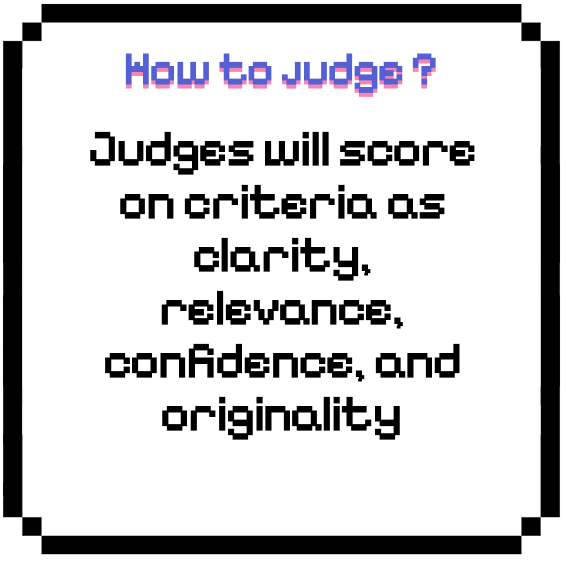
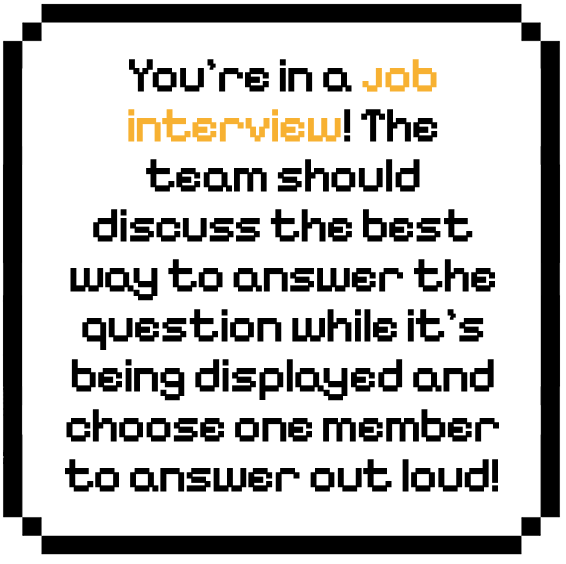
tutorial 100%, new tips, better flow

Changed region(s): [[0.1201, 0.0904, 0.871, 0.7837], [0.1201, 0.8138, 0.9011, 0.8741]]

diff --git a/scripts/tutorial.js b/scripts/tutorial.js
@@ -267,12 +267,37 @@ export class JudgingScreen {
             <button class="judging-strike-btn team2" id="voteTeam2">STRIKE!</button>
           </div>
         </div>
+        
+        <!-- Tutorial Overlay e frases -->
+        <div class="tutorial-overlay"></div>
+        <p class="tutorial-frase tutorial-frase-7"></p>
+        <p class="tutorial-frase tutorial-frase-8"></p>
       `;
       document.body.appendChild(overlay);
 
       // Fade-in
       setTimeout(() => { overlay.style.opacity = '1'; }, 10);
 
+      // Seleciona os elementos do tutorial
+      const tutorialOverlay = overlay.querySelector('.tutorial-overlay');
+      const howToVote1 = overlay.querySelector('.tutorial-frase-7');
+      const howToVote2 = overlay.querySelector('.tutorial-frase-8');
+
+      // Após 4 segundos, exibe o tutorial
+      setTimeout(() => {
+        if (tutorialOverlay) tutorialOverlay.classList.add("active");
+        if (howToVote1) howToVote1.classList.add("active");
+        if (howToVote2) howToVote2.classList.add("active");
+      }, 2000);
+
+      // Remove o tutorial após 0.5 segundos (totalizando 4.5 segundos)
+      setTimeout(() => {
+        if (howToVote1) howToVote1.classList.remove("active");
+        if (howToVote2) howToVote2.classList.remove("active");
+        tutorialOverlay.classList.remove("active");
+      }, 16000);
+
+      // Resto do código permanece igual...
       // Atualização em tempo real das barras de vida
       let rafId;
       function updateJudgingLifeBars() {
@@ -358,10 +383,9 @@ export class JudgingScreen {
         if (judgeTimerSpan) judgeTimerSpan.textContent = remaining;
         if (remaining <= 0) {
           clearInterval(timerId);
-          // Se ninguém votou, naoo acontece nada
+          // Se ninguém votou, não acontece nada
           if (!votedTeam) {
-            //  esquema pra votar em um time aleatorio. Acho que não faz sentido, mas pode ser util no futuro. Vou deixar só comentado ent.
-            //const randomTeam = Math.random() < 0.5 ? 'team1' : 'team2'; 
+            onVote('team2');
             voteTeam2Btn.classList.add('inactive');
             voteTeam1Btn.classList.add('inactive');
             if (rafId) cancelAnimationFrame(rafId);
@@ -372,15 +396,12 @@ export class JudgingScreen {
                 resolve(votedTeam);
               }, 500);
             }, 1000);
-
-
           }
         }
       }, 1000);
     });
   }
 }
-
 class Game {
   async showJudgesWillDecide() {
     return new Promise(resolve => {
@@ -399,6 +420,20 @@ class Game {
       img.className = 'judges-will-decide-img';
       judgesDiv.appendChild(img);
       document.body.appendChild(judgesDiv);
+
+      setTimeout(() => {
+        tutorialOverlay.classList.add("active")
+        howToVote1.classList.add("active")
+        howToVote2.classList.add("active")
+      }, 40000);
+
+      setTimeout(() => {
+        howToVote1.classList.remove("active")
+        howToVote2.classList.remove("active")
+      }, 45000);
+
+
+
       // Fade-in
       setTimeout(() => {
         judgesDiv.style.opacity = '1';
@@ -534,11 +569,11 @@ class Game {
 
     this.pauseSystem.resetPauseTime();
 
-    await this.runTeamTurn('team1', global.options.round);
+    await this.runTeamTurn('team1', 35);
 
     this.pauseSystem.resetPauseTime();
 
-    await this.runTeamTurn('team2', global.options.round);
+    await this.runTeamTurn('team2', 35);
 
     // Esconde (sem reflow) o FIGHT, a linha dos turnos e as ações antes do julgamento
     const fightOverlay = document.getElementById('fight-overlay');
@@ -653,6 +688,9 @@ class Game {
     const howToJudge2 = document.querySelector('.tutorial-frase-5');
     const team2Tip = document.querySelector('.tutorial-frase-6');
 
+    const howToVote1 = document.querySelector('.tutorial-frase-7');
+    const howToVote2 = document.querySelector('.tutorial-frase-8');
+
 
     if (team1Label && team2Label) {
       if (team === 'team1') {
@@ -664,32 +702,23 @@ class Game {
         setTimeout(() => {
           tutorialOverlay.classList.add("active")
           team1Speak.classList.add("active")
-
-          setTimeout(() => {
-            team1Speak.classList.remove("active")
-            team2Speak.classList.add("active")
-
-            setTimeout(() => {
-              team2Speak.classList.remove("active")
-              team1Tip.classList.add("active")
-              howToJudge1.classList.add("active")
-
-              setTimeout(() => {
-                team1Tip.classList.remove("active")
-                howToJudge1.classList.remove("active")
-
-                howToJudge2.classList.add("active")
-                team2Tip.classList.add("active")
-
-                setTimeout(() => {
-                  howToJudge2.classList.remove("active")
-                  team2Tip.classList.remove("active")
-                  tutorialOverlay.classList.remove("active")
-                }, 10000);
-              }, 10000);
-            }, 4000);
-          }, 4000);
         }, 4000);
+
+        setTimeout(() => {
+          howToJudge1.classList.add("active")
+
+        }, 12000);
+
+        setTimeout(() => {
+          team1Tip.classList.add("active")
+          team1Speak.classList.remove("active")
+        }, 16000);
+
+        setTimeout(() => {
+          howToJudge1.classList.remove("active")
+          team1Tip.classList.remove("active")
+          tutorialOverlay.classList.remove("active")
+        }, 24000);
 
         team1Label.classList.add('active-turn-label');
         team2Label.classList.remove('active-turn-label');
@@ -724,6 +753,27 @@ class Game {
           const heart = team2BarWrap.querySelector('.life-heart');
           if (bar) bar.classList.remove('inactive');
           if (heart) heart.classList.remove('inactive');
+
+          setTimeout(() => {
+            tutorialOverlay.classList.add("active")
+            team2Speak.classList.add("active")
+          }, 4000);
+
+          setTimeout(() => {
+            howToJudge2.classList.add("active")
+          }, 12000);
+          
+          setTimeout(() => {
+            team2Speak.classList.remove("active")
+            team2Tip.classList.add("active")
+          }, 16000);
+
+          setTimeout(() => {
+            howToJudge2.classList.remove("active")
+            team2Tip.classList.remove("active")
+            tutorialOverlay.classList.remove("active")
+          }, 24000);
+
         }
         if (team1BarWrap) {
           team1BarWrap.classList.add('inactive');
@@ -798,7 +848,13 @@ class Game {
       // Habilitar botão END TURN para encerrar este turno
       let onEndClick = null;
       if (endTurnBtn) {
-        endTurnBtn.disabled = false;
+        endTurnBtn.disabled = true;
+        
+        setTimeout(() => {
+          endTurnBtn.disabled = false;
+        }, 24000);
+
+
         onEndClick = () => {
           if (endedEarly) return;
           endedEarly = true;
@@ -815,6 +871,9 @@ class Game {
         resolve();
       }, seconds * 1000 + 2000);
     });
+
+
+    
   }
   constructor(job) {
     this.job = job;
@@ -1563,6 +1622,9 @@ class PauseSystem {
       font-size: 20px;
       color: white;
       transition: opacity 0.3s, transform 0.3s;
+      opacity: 0;
+      pointer-events: none;
+
     `;
 
     const isGamePage = window.location.pathname.endsWith('tutorial.html');

diff --git a/styles/game.css b/styles/game.css
@@ -1596,6 +1596,28 @@ body {
   top: 5vh;
 }
 
+
+.tutorial-frase-7 {
+  background-image: url('../assets/images/tutorial/how-to-judge-3.png');
+  width: 650px;
+  height: 350px;
+  background-repeat: no-repeat;
+  background-size: contain;
+  position: absolute;
+  left: 65vw;
+  top: 2vh;
+}
+
+.tutorial-frase-8 {
+  background-image: url('../assets/images/tutorial/how-to-judge-4.png');
+  width: 650px;
+  height: 400px;
+  background-repeat: no-repeat;
+  background-size: contain;
+  position: absolute;
+  left: 5vw;
+  bottom: 2vh;
+}
 .tutorial-overlay {
   opacity: 0;
   transition: .5s ease-out;
@@ -1613,5 +1635,5 @@ body {
 
 .tutorial-overlay.active {
   opacity: 1;
-  pointer-events: auto;
+  pointer-events: none;
 }

diff --git a/pages/tutorial.html b/pages/tutorial.html
@@ -95,6 +95,8 @@
     <p class="tutorial-frase tutorial-frase-4"></p>
     <p class="tutorial-frase tutorial-frase-5"></p>
     <p class="tutorial-frase tutorial-frase-6"></p>
+    <p class="tutorial-frase tutorial-frase-7"></p>
+    <p class="tutorial-frase tutorial-frase-8"></p>
 
     <div id="visual-timer" class="timer-circle"></div>
 
